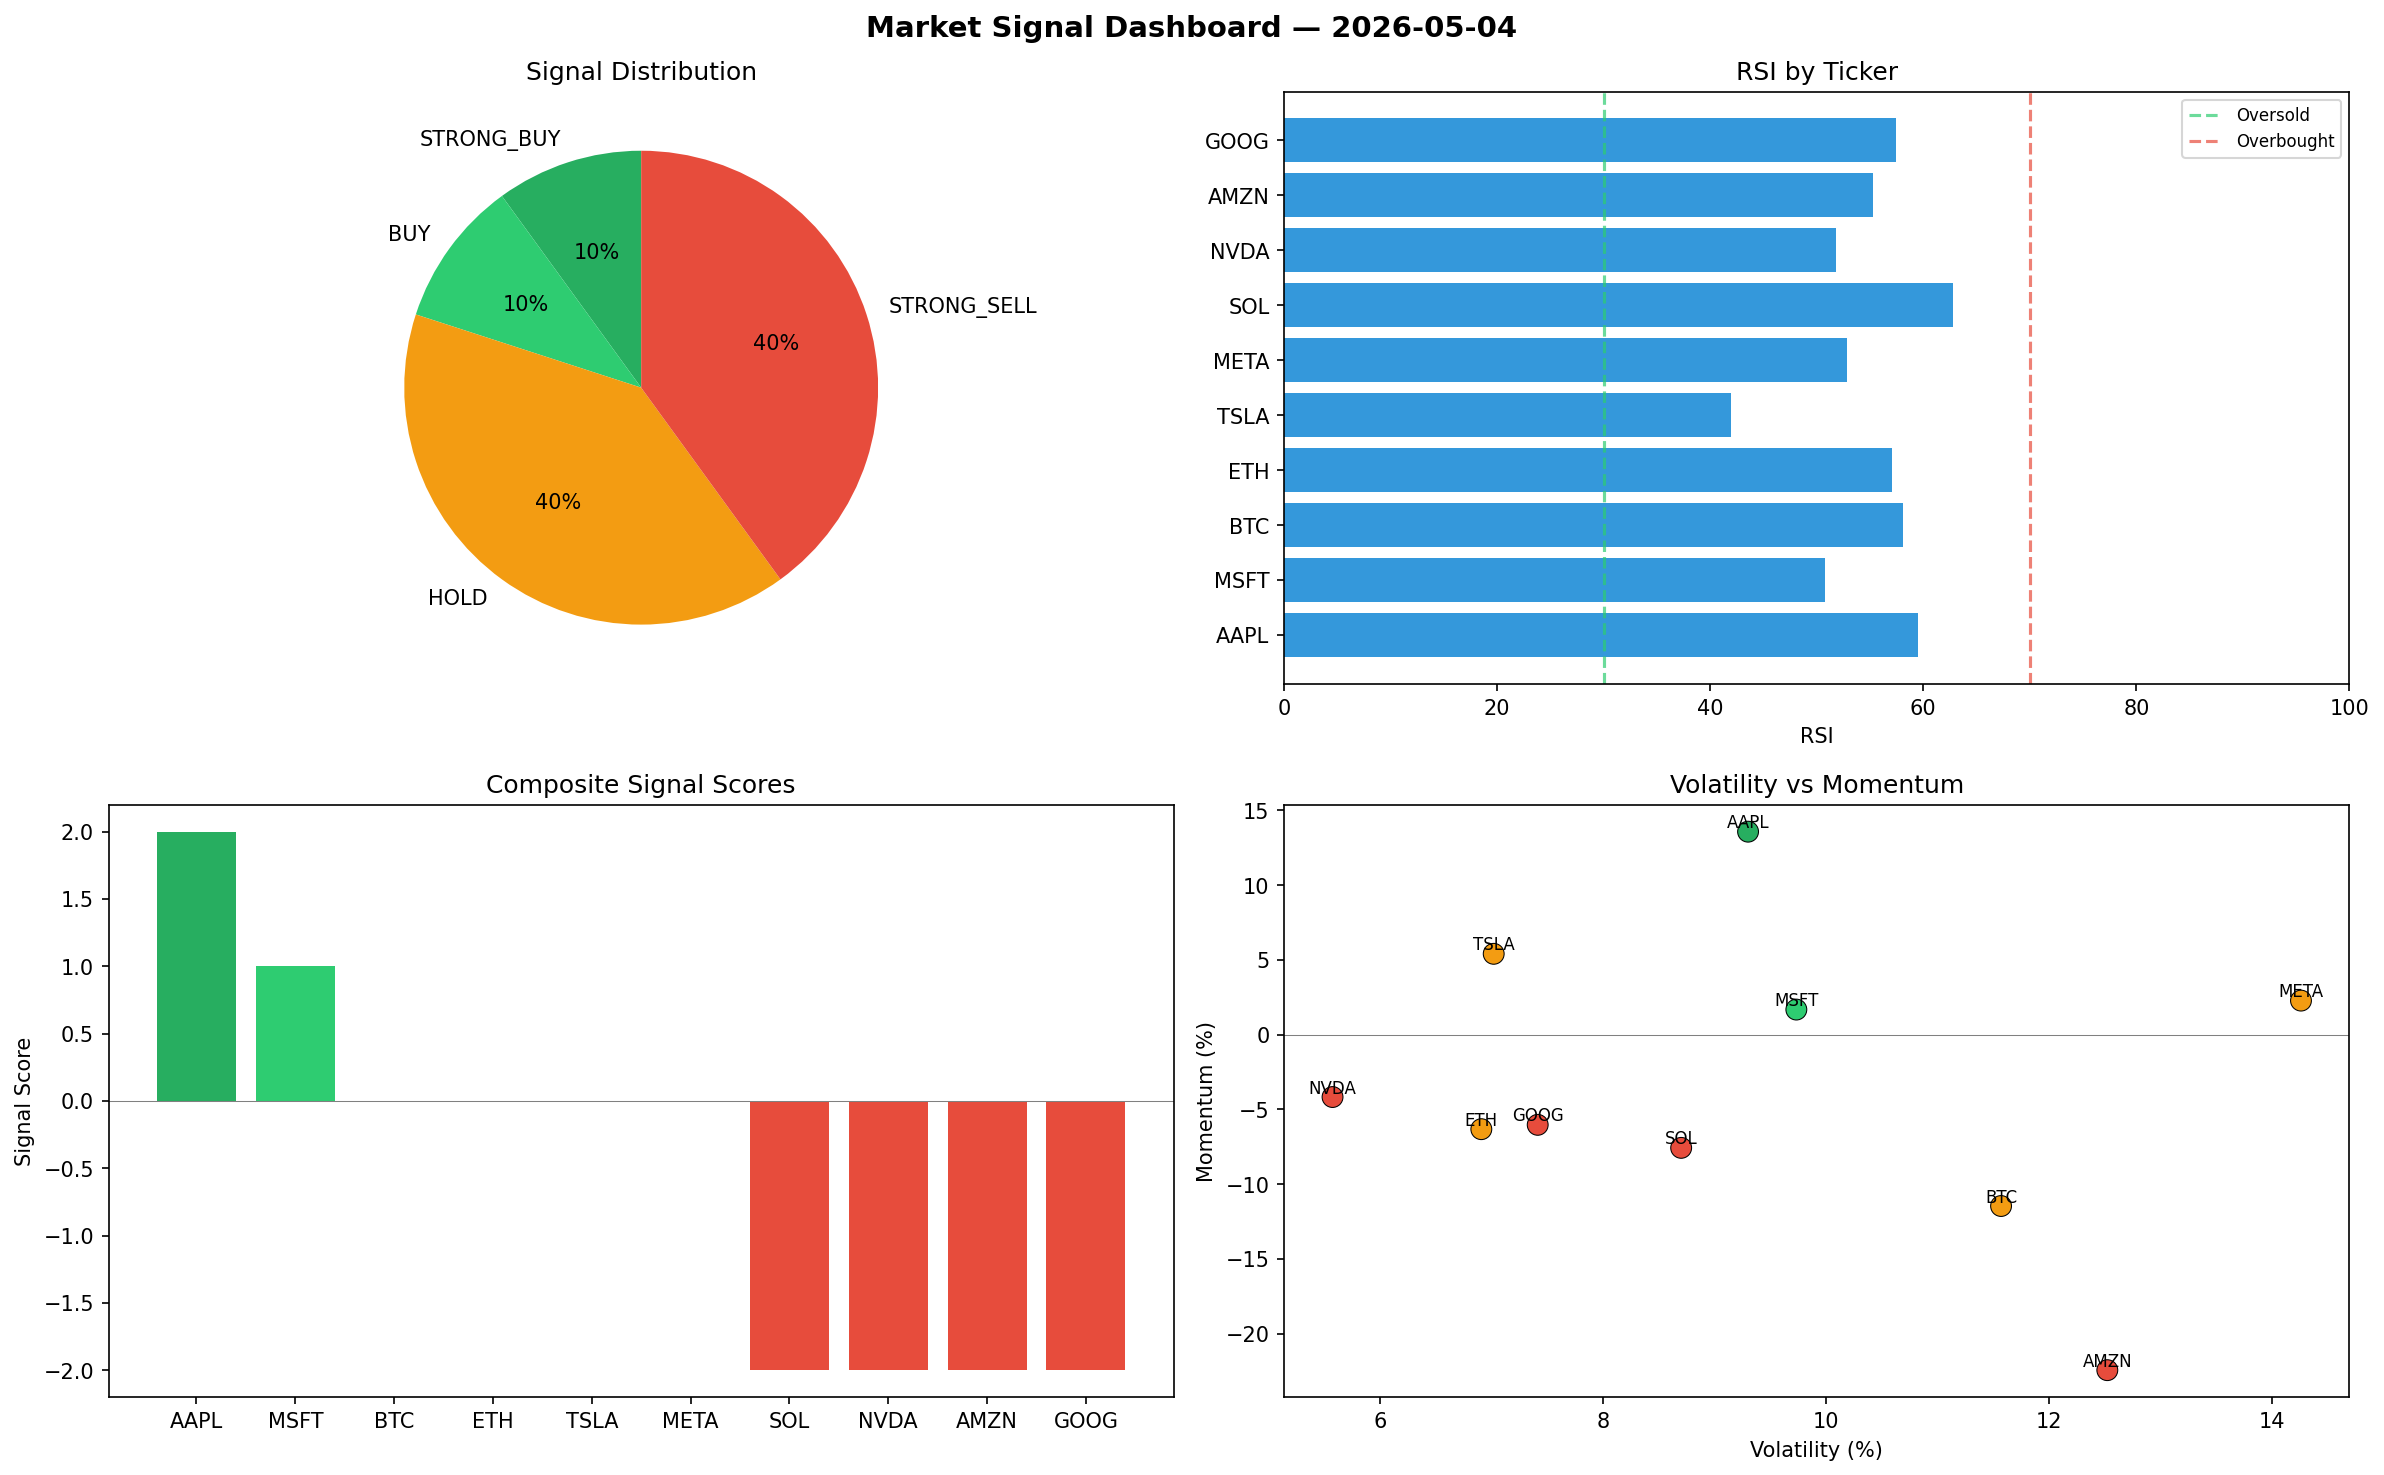
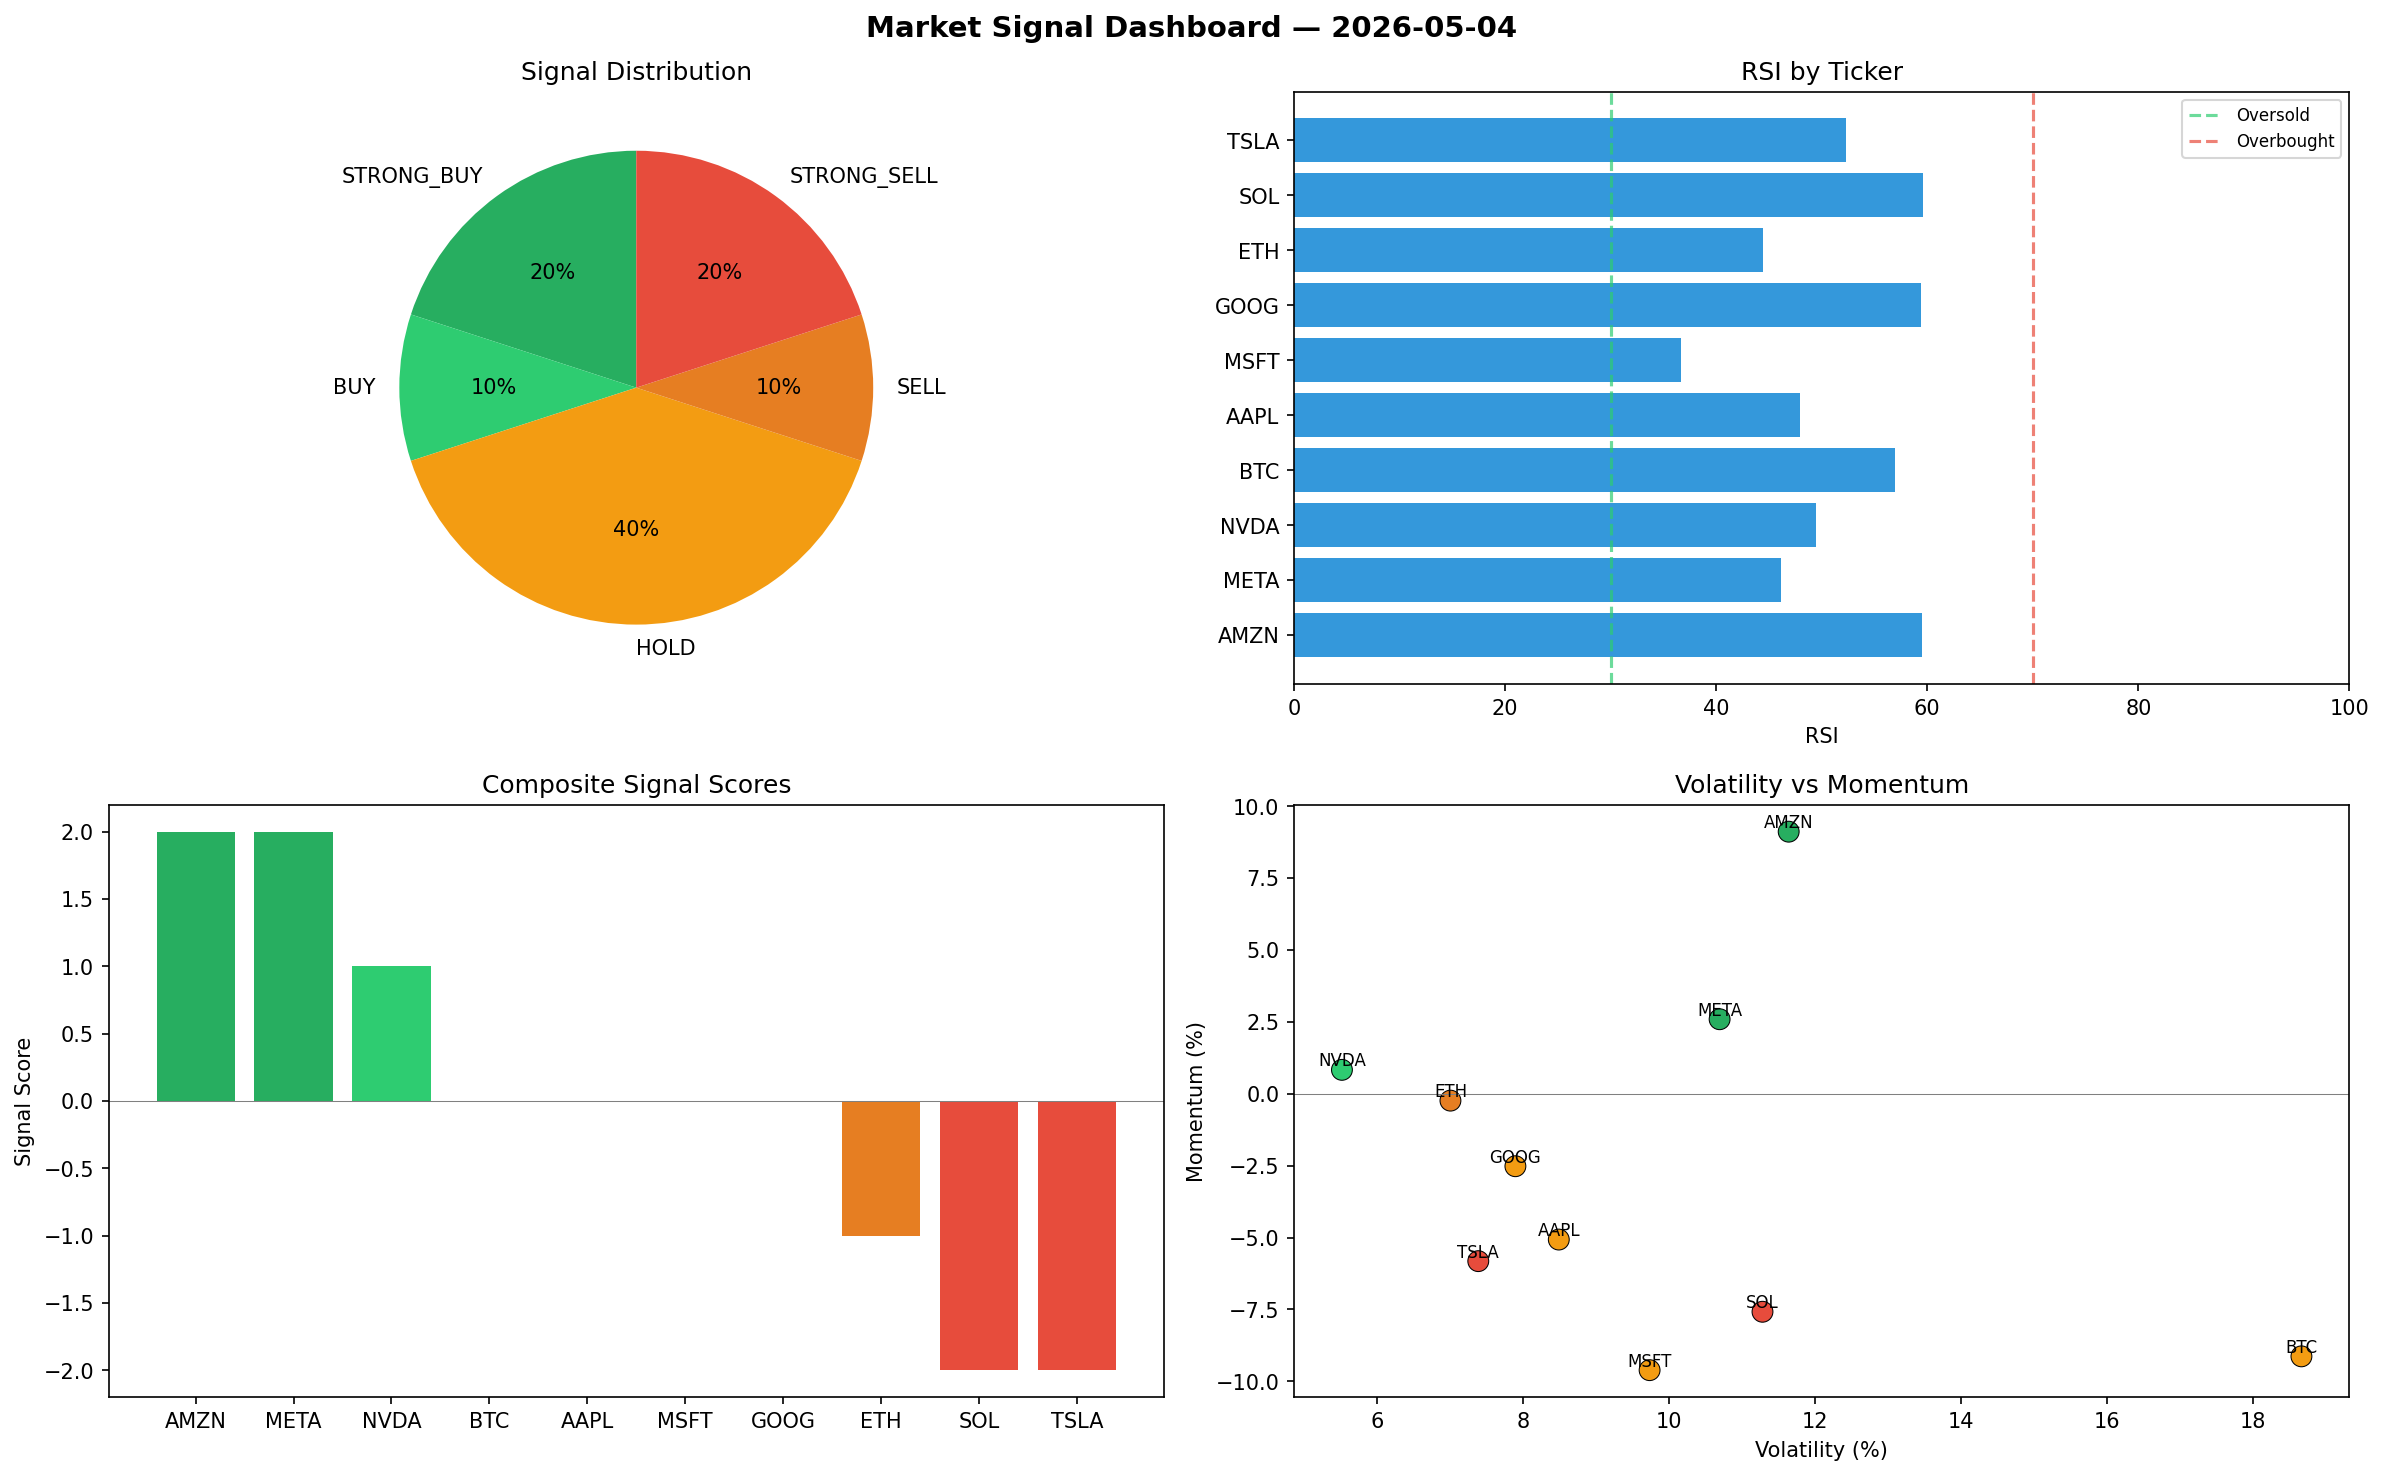
automated-bots: market signals 2026-05-04T16:17

diff --git a/logs/2026-05-04.md b/logs/2026-05-04.md
@@ -1,6 +1,6 @@
 # Market Signal Report — 2026-05-04
 
-**Run ID:** `fce9884202` | **Buy:** 2 | **Sell:** 4 | **Hold:** 4
+**Run ID:** `152e7aa415` | **Buy:** 3 | **Sell:** 3 | **Hold:** 4
 
 ![Dashboard](2026-05-04_dashboard.png)
 
@@ -8,28 +8,28 @@
 
 | Ticker | Price | Signal | Score | RSI | Momentum | Confidence |
 |--------|-------|--------|-------|-----|----------|------------|
-| AAPL | $4824.73 | **STRONG_BUY** | 2 | 59.52 | 0.1357 | 0.5 |
-| MSFT | $3519.58 | **BUY** | 1 | 50.8 | 0.0167 | 0.25 |
-| BTC | $561.35 | **HOLD** | 0 | 58.09 | -0.1147 | 0.0 |
-| ETH | $1343.83 | **HOLD** | 0 | 57.02 | -0.0633 | 0.0 |
-| TSLA | $2398.32 | **HOLD** | 0 | 41.92 | 0.054 | 0.0 |
-| META | $1380.39 | **HOLD** | 0 | 52.83 | 0.0227 | 0.0 |
-| SOL | $4279.02 | **STRONG_SELL** | -2 | 62.79 | -0.0758 | 0.5 |
-| NVDA | $2779.87 | **STRONG_SELL** | -2 | 51.82 | -0.0418 | 0.5 |
-| AMZN | $165.02 | **STRONG_SELL** | -2 | 55.32 | -0.2245 | 0.5 |
-| GOOG | $1112.74 | **STRONG_SELL** | -2 | 57.45 | -0.0604 | 0.5 |
+| AMZN | $1506.89 | **STRONG_BUY** | 2 | 59.52 | 0.0911 | 0.5 |
+| META | $4747.48 | **STRONG_BUY** | 2 | 46.14 | 0.0259 | 0.5 |
+| NVDA | $4852.7 | **BUY** | 1 | 49.47 | 0.0083 | 0.25 |
+| BTC | $2548.11 | **HOLD** | 0 | 56.93 | -0.0913 | 0.0 |
+| AAPL | $946.5 | **HOLD** | 0 | 47.97 | -0.0507 | 0.0 |
+| MSFT | $2737.6 | **HOLD** | 0 | 36.65 | -0.0961 | 0.0 |
+| GOOG | $1547.36 | **HOLD** | 0 | 59.39 | -0.0252 | 0.0 |
+| ETH | $1578.4 | **SELL** | -1 | 44.46 | -0.0024 | 0.25 |
+| SOL | $54.01 | **STRONG_SELL** | -2 | 59.58 | -0.0758 | 0.5 |
+| TSLA | $2377.12 | **STRONG_SELL** | -2 | 52.3 | -0.0582 | 0.5 |
 
 ## Delta vs Yesterday
 
 | Ticker | Today | Yesterday | Price Change | Signal Changed |
 |--------|-------|-----------|-------------|----------------|
-| AAPL | STRONG_BUY | HOLD | 📈 155.89% | ⚠ YES |
-| MSFT | BUY | STRONG_SELL | 📈 587.34% | ⚠ YES |
-| BTC | HOLD | STRONG_BUY | 📉 -69.63% | ⚠ YES |
-| ETH | HOLD | STRONG_SELL | 📉 -69.64% | ⚠ YES |
-| TSLA | HOLD | STRONG_SELL | 📈 105.25% | ⚠ YES |
-| META | HOLD | STRONG_SELL | 📉 -20.44% | ⚠ YES |
-| SOL | STRONG_SELL | STRONG_BUY | 📈 156.56% | ⚠ YES |
-| NVDA | STRONG_SELL | STRONG_SELL | 📈 21.32% | — |
-| AMZN | STRONG_SELL | STRONG_SELL | 📉 -63.79% | — |
-| GOOG | STRONG_SELL | HOLD | 📉 -36.59% | ⚠ YES |
+| AMZN | STRONG_BUY | STRONG_SELL | 📈 230.66% | ⚠ YES |
+| META | STRONG_BUY | STRONG_SELL | 📈 173.62% | ⚠ YES |
+| NVDA | BUY | STRONG_SELL | 📈 111.79% | ⚠ YES |
+| BTC | HOLD | STRONG_BUY | 📈 37.86% | ⚠ YES |
+| AAPL | HOLD | HOLD | 📉 -49.8% | — |
+| MSFT | HOLD | STRONG_SELL | 📈 434.62% | ⚠ YES |
+| GOOG | HOLD | HOLD | 📉 -11.82% | — |
+| ETH | SELL | STRONG_SELL | 📉 -64.34% | ⚠ YES |
+| SOL | STRONG_SELL | STRONG_BUY | 📉 -96.76% | ⚠ YES |
+| TSLA | STRONG_SELL | STRONG_SELL | 📈 103.44% | — |
